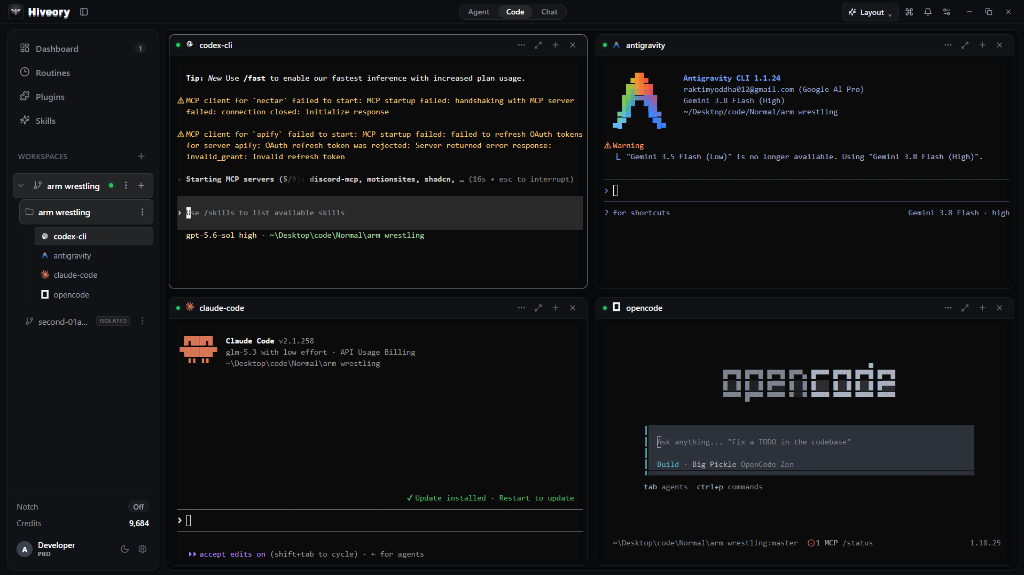
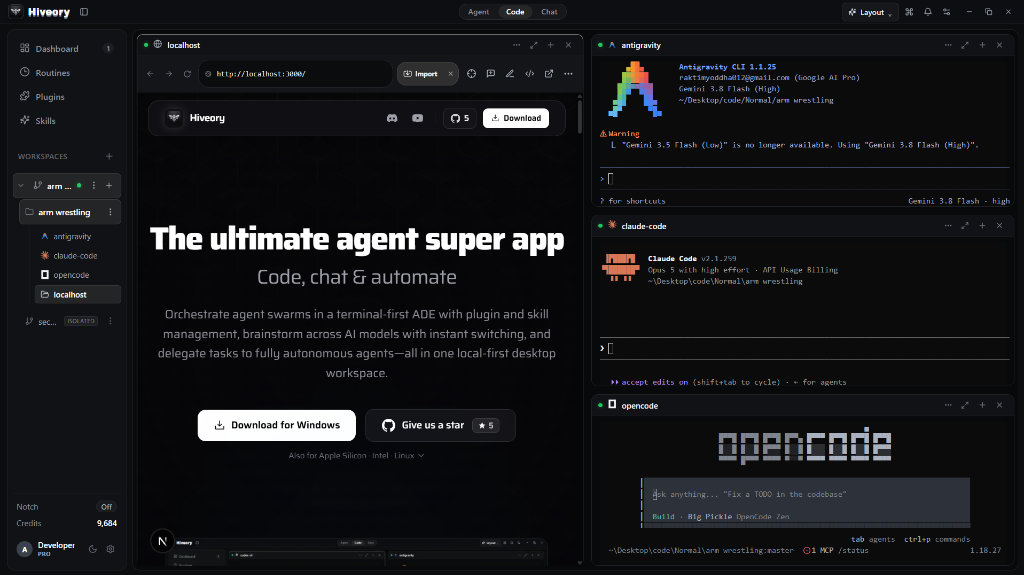
cards

diff --git a/src/components/ProductCardStack.tsx b/src/components/ProductCardStack.tsx
@@ -1,6 +1,7 @@
 "use client";
 
 import { motion, useScroll, useTransform } from "framer-motion";
+import Image from "next/image";
 import Link from "next/link";
 import { useEffect, useRef, useState } from "react";
 
@@ -12,7 +13,7 @@ interface ModeCard {
   subtitle: string;
   description: string;
   bullets: string[];
-  vacancyLabel: string;
+  imageSrc: string;
   icon: React.ReactNode;
 }
 
@@ -31,7 +32,7 @@ const modesData: ModeCard[] = [
       "Background swarm delegation & reactive wakeups",
       "Continuous audit logs & execution telemetry",
     ],
-    vacancyLabel: "Agent Mode Workspace Preview",
+    imageSrc: "/agent-mode.png",
     icon: (
       <svg
         className="w-5 h-5 sm:w-6 sm:h-6 text-emerald-400"
@@ -62,7 +63,7 @@ const modesData: ModeCard[] = [
       "Native PTY terminal multiplexing with streaming ANSI",
       "Shared Nectar architecture & memory store over MCP",
     ],
-    vacancyLabel: "Code Mode ADE Multi-Pane Preview",
+    imageSrc: "/demo.png",
     icon: (
       <svg
         className="w-5 h-5 sm:w-6 sm:h-6 text-blue-400"
@@ -93,7 +94,7 @@ const modesData: ModeCard[] = [
       "Sandboxed file attachments and markdown previews",
       "Local-first encrypted conversation archive",
     ],
-    vacancyLabel: "Chat Mode Session Preview",
+    imageSrc: "/chat-mode.png",
     icon: (
       <svg
         className="w-5 h-5 sm:w-6 sm:h-6 text-purple-400"
@@ -114,7 +115,7 @@ const modesData: ModeCard[] = [
 
 export default function ProductCardStack() {
   const sectionRef = useRef<HTMLDivElement>(null);
-  const [bottomOffset, setBottomOffset] = useState<number>(1000);
+  const [bottomOffset, setBottomOffset] = useState<number>(1200);
 
   useEffect(() => {
     const updateOffset = () => {
@@ -130,163 +131,126 @@ export default function ProductCardStack() {
     offset: ["start start", "end end"],
   });
 
-  // CARD 0 (Agent Mode): Stays in its place from the start (y: 0), scales down as Card 1 arrives
-  const scale0 = useTransform(scrollYProgress, [0.10, 0.35], [1, 0.94]);
+  // CARD 0 (Agent Mode): Stays at y: 0, full scale
+  // CARD 1 (Code Mode): Starts rising immediately as scroll starts from this position, completely overriding Card 0
+  const y1 = useTransform(scrollYProgress, [0.01, 0.44], [bottomOffset, 0]);
 
-  // CARD 1 (Code Mode): Appears from the very bottom, rises and stops over Card 0 at y: 20
-  const y1 = useTransform(scrollYProgress, [0.08, 0.35], [bottomOffset, 20]);
-  const scale1 = useTransform(scrollYProgress, [0.40, 0.65], [1, 0.97]);
-
-  // CARD 2 (Chat Mode): Appears from the very bottom, rises and stops over Card 1 at y: 40 (settles early by 0.65)
-  const y2 = useTransform(scrollYProgress, [0.38, 0.65], [bottomOffset, 40]);
-
-  // Get Details button: Only appears once Card 3 (Chat Mode) has fully settled at the top (after 0.65)
-  const buttonOpacity = useTransform(scrollYProgress, (pos) => {
-    if (pos >= 0.72) return 1;
-    if (pos <= 0.65) return 0;
-    return (pos - 0.65) / (0.72 - 0.65);
-  });
-  const buttonY = useTransform(scrollYProgress, (pos) => {
-    if (pos >= 0.72) return 0;
-    if (pos <= 0.65) return 16;
-    return Math.round(16 * (1 - (pos - 0.65) / (0.72 - 0.65)));
-  });
-  const buttonPointerEvents = useTransform(scrollYProgress, (pos) =>
-    pos >= 0.68 ? "auto" : "none"
-  );
+  // CARD 2 (Chat Mode): Rises up and lands at y: 0, completely overriding Card 1
+  const y2 = useTransform(scrollYProgress, [0.48, 0.88], [bottomOffset, 0]);
 
   return (
-    <section
-      id="product-modes"
-      ref={sectionRef}
-      className="relative w-full h-[420vh] z-20"
-    >
-      {/* Sticky Viewport Frame: Balanced top positioning */}
-      <div className="sticky top-0 h-screen w-full flex flex-col items-center justify-start pt-20 sm:pt-22 md:pt-24 pb-6 px-4 sm:px-6 overflow-hidden pointer-events-none">
-        {/* Stuck Title and Description at the Top */}
-        <div className="max-w-3xl mx-auto text-center mb-5 sm:mb-6 shrink-0 pointer-events-auto">
-          <h2 className="text-3xl sm:text-4xl md:text-5xl font-extrabold tracking-[-0.03em] text-white leading-tight mb-2">
-            One Super App. Three Modes.
-          </h2>
-          <p className="text-xs sm:text-sm text-zinc-400 max-w-xl mx-auto leading-relaxed">
-            Switch seamlessly between full autonomous task execution, multi-CLI
-            coding sessions, and multi-model brainstorming.
-          </p>
-        </div>
-
-        {/* Stacking Cards Area: Below the Title and Description */}
-        <div className="relative w-full max-w-5xl h-[420px] sm:h-[450px] md:h-[465px] pointer-events-auto">
-          {/* CARD 0: Agent Mode - Stays in place */}
-          <motion.div
-            style={{ y: 0, scale: scale0, zIndex: 10 }}
-            className="absolute inset-x-0 top-0 origin-top rounded-none border border-white/[0.15] bg-[#0c0c11]/95 backdrop-blur-2xl shadow-[0_30px_90px_-15px_rgba(0,0,0,0.95),inset_0_1px_0_rgba(255,255,255,0.08)] p-5 sm:p-7 md:p-8"
-          >
-            {/* Outer Card Corner Brackets */}
-            <div className="absolute top-2 left-2 w-3.5 h-3.5 border-t-2 border-l-2 border-white/40 pointer-events-none" />
-            <div className="absolute top-2 right-2 w-3.5 h-3.5 border-t-2 border-r-2 border-white/40 pointer-events-none" />
-            <div className="absolute bottom-2 left-2 w-3.5 h-3.5 border-b-2 border-l-2 border-white/40 pointer-events-none" />
-            <div className="absolute bottom-2 right-2 w-3.5 h-3.5 border-b-2 border-r-2 border-white/40 pointer-events-none" />
-            <CardInnerContent card={modesData[0]} />
-          </motion.div>
-
-          {/* CARD 1: Code Mode */}
-          <motion.div
-            style={{ y: y1, scale: scale1, zIndex: 20 }}
-            className="absolute inset-x-0 top-0 origin-top rounded-none border border-white/[0.15] bg-[#0c0c11]/95 backdrop-blur-2xl shadow-[0_30px_90px_-15px_rgba(0,0,0,0.95),inset_0_1px_0_rgba(255,255,255,0.08)] p-5 sm:p-7 md:p-8"
-          >
-            {/* Outer Card Corner Brackets */}
-            <div className="absolute top-2 left-2 w-3.5 h-3.5 border-t-2 border-l-2 border-white/40 pointer-events-none" />
-            <div className="absolute top-2 right-2 w-3.5 h-3.5 border-t-2 border-r-2 border-white/40 pointer-events-none" />
-            <div className="absolute bottom-2 left-2 w-3.5 h-3.5 border-b-2 border-l-2 border-white/40 pointer-events-none" />
-            <div className="absolute bottom-2 right-2 w-3.5 h-3.5 border-b-2 border-r-2 border-white/40 pointer-events-none" />
-            <CardInnerContent card={modesData[1]} />
-          </motion.div>
-
-          {/* CARD 2: Chat Mode */}
-          <motion.div
-            style={{ y: y2, zIndex: 30 }}
-            className="absolute inset-x-0 top-0 origin-top rounded-none border border-white/[0.15] bg-[#0c0c11]/95 backdrop-blur-2xl shadow-[0_30px_90px_-15px_rgba(0,0,0,0.95),inset_0_1px_0_rgba(255,255,255,0.08)] p-5 sm:p-7 md:p-8"
-          >
-            {/* Outer Card Corner Brackets */}
-            <div className="absolute top-2 left-2 w-3.5 h-3.5 border-t-2 border-l-2 border-white/40 pointer-events-none" />
-            <div className="absolute top-2 right-2 w-3.5 h-3.5 border-t-2 border-r-2 border-white/40 pointer-events-none" />
-            <div className="absolute bottom-2 left-2 w-3.5 h-3.5 border-b-2 border-l-2 border-white/40 pointer-events-none" />
-            <div className="absolute bottom-2 right-2 w-3.5 h-3.5 border-b-2 border-r-2 border-white/40 pointer-events-none" />
-            <CardInnerContent card={modesData[2]} />
-          </motion.div>
-        </div>
-
-        {/* Get More Details Button - Persistently appears ONLY after 3rd card settles at the top */}
-        <motion.div
-          style={{
-            opacity: buttonOpacity,
-            y: buttonY,
-            pointerEvents: buttonPointerEvents,
-          }}
-          className="mt-2 sm:mt-3 z-40 flex items-center justify-center"
-        >
-          <Link
-            href="/product"
-            className="group relative inline-flex items-center gap-2 px-6 py-2.5 rounded-lg bg-[#141418] hover:bg-white text-white hover:text-black border border-white/20 hover:border-white text-xs sm:text-sm font-semibold tracking-wide transition-all duration-300 shadow-[0_0_25px_rgba(255,255,255,0.06)] hover:shadow-[0_0_35px_rgba(255,255,255,0.25)]"
-          >
-            <span>Get More Details</span>
-            <span className="group-hover:translate-x-1 transition-transform duration-300">→</span>
-          </Link>
-        </motion.div>
+    <div id="product-modes" className="relative w-full">
+      {/* Section Header (In normal document flow, NOT stuck in the overlapping animation) */}
+      <div className="relative z-10 w-full max-w-4xl mx-auto px-4 sm:px-6 pt-16 sm:pt-24 pb-8 sm:pb-12 text-center">
+        <h2 className="text-3xl sm:text-4xl md:text-5xl lg:text-[54px] font-extrabold tracking-[-0.03em] text-white leading-tight mb-4">
+          One Super App. Three Modes.
+        </h2>
+        <p className="text-base sm:text-lg text-zinc-400 max-w-2xl mx-auto leading-relaxed">
+          Switch seamlessly between full autonomous task execution, multi-CLI
+          coding sessions, and multi-model brainstorming inside one unified host.
+        </p>
       </div>
-    </section>
+
+      {/* Sticky Overlapping Cards Animation (Title is NOT shown in sticky viewport) */}
+      <section
+        ref={sectionRef}
+        className="relative w-full h-[320vh] z-20"
+      >
+        {/* Sticky Viewport Frame: Shifted down to stay centered overall in the viewport */}
+        <div className="sticky top-0 h-screen w-full flex flex-col items-center justify-center pt-8 pb-4 px-4 sm:px-6 lg:px-8 overflow-hidden pointer-events-none">
+          {/* Overriding Lowered-Length Cards Area */}
+          <div className="relative w-full max-w-6xl h-[430px] sm:h-[450px] md:h-[470px] lg:h-[480px] pointer-events-auto">
+            {/* CARD 0: Agent Mode - In place from start */}
+            <motion.div
+              style={{ y: 0, zIndex: 10 }}
+              className="absolute inset-0 rounded-none border border-white/[0.15] bg-[#0c0c11] shadow-[0_30px_90px_-15px_rgba(0,0,0,0.95),inset_0_1px_0_rgba(255,255,255,0.08)] p-5 sm:p-6 md:p-8 flex flex-col justify-center"
+            >
+              {/* Outer Card Corner Brackets */}
+              <div className="absolute top-2.5 left-2.5 w-4 h-4 border-t-2 border-l-2 border-white/40 pointer-events-none" />
+              <div className="absolute top-2.5 right-2.5 w-4 h-4 border-t-2 border-r-2 border-white/40 pointer-events-none" />
+              <div className="absolute bottom-2.5 left-2.5 w-4 h-4 border-b-2 border-l-2 border-white/40 pointer-events-none" />
+              <div className="absolute bottom-2.5 right-2.5 w-4 h-4 border-b-2 border-r-2 border-white/40 pointer-events-none" />
+              <CardInnerContent card={modesData[0]} index={0} />
+            </motion.div>
+
+            {/* CARD 1: Code Mode - Rises up and completely overrides Card 0 */}
+            <motion.div
+              style={{ y: y1, zIndex: 20 }}
+              className="absolute inset-0 rounded-none border border-white/[0.15] bg-[#0c0c11] shadow-[0_30px_90px_-15px_rgba(0,0,0,0.95),inset_0_1px_0_rgba(255,255,255,0.08)] p-5 sm:p-6 md:p-8 flex flex-col justify-center"
+            >
+              {/* Outer Card Corner Brackets */}
+              <div className="absolute top-2.5 left-2.5 w-4 h-4 border-t-2 border-l-2 border-white/40 pointer-events-none" />
+              <div className="absolute top-2.5 right-2.5 w-4 h-4 border-t-2 border-r-2 border-white/40 pointer-events-none" />
+              <div className="absolute bottom-2.5 left-2.5 w-4 h-4 border-b-2 border-l-2 border-white/40 pointer-events-none" />
+              <div className="absolute bottom-2.5 right-2.5 w-4 h-4 border-b-2 border-r-2 border-white/40 pointer-events-none" />
+              <CardInnerContent card={modesData[1]} index={1} />
+            </motion.div>
+
+            {/* CARD 2: Chat Mode - Rises up and completely overrides Card 1 */}
+            <motion.div
+              style={{ y: y2, zIndex: 30 }}
+              className="absolute inset-0 rounded-none border border-white/[0.15] bg-[#0c0c11] shadow-[0_30px_90px_-15px_rgba(0,0,0,0.95),inset_0_1px_0_rgba(255,255,255,0.08)] p-5 sm:p-6 md:p-8 flex flex-col justify-center"
+            >
+              {/* Outer Card Corner Brackets */}
+              <div className="absolute top-2.5 left-2.5 w-4 h-4 border-t-2 border-l-2 border-white/40 pointer-events-none" />
+              <div className="absolute top-2.5 right-2.5 w-4 h-4 border-t-2 border-r-2 border-white/40 pointer-events-none" />
+              <div className="absolute bottom-2.5 left-2.5 w-4 h-4 border-b-2 border-l-2 border-white/40 pointer-events-none" />
+              <div className="absolute bottom-2.5 right-2.5 w-4 h-4 border-b-2 border-r-2 border-white/40 pointer-events-none" />
+              <CardInnerContent card={modesData[2]} index={2} />
+            </motion.div>
+          </div>
+
+          {/* See More Details Button - Always visible, never disappears while scrolling down */}
+          <div className="mt-6 sm:mt-8 z-40 flex items-center justify-center pointer-events-auto">
+            <Link
+              href="/product"
+              className="group relative inline-flex items-center gap-2 px-6 py-2.5 rounded-none bg-[#141418] hover:bg-white text-white hover:text-black border border-white/20 hover:border-white text-xs sm:text-sm font-semibold tracking-wide transition-all duration-300 shadow-[0_0_25px_rgba(255,255,255,0.06)] hover:shadow-[0_0_35px_rgba(255,255,255,0.25)]"
+            >
+              <span>See More Details</span>
+              <span className="group-hover:translate-x-1 transition-transform duration-300">→</span>
+            </Link>
+          </div>
+        </div>
+      </section>
+    </div>
   );
 }
 
-function CardInnerContent({ card }: { card: ModeCard }) {
+function CardInnerContent({ card, index }: { card: ModeCard; index: number }) {
   return (
-    <div className="grid grid-cols-1 md:grid-cols-12 gap-5 sm:gap-8 items-center">
-      {/* Left Side: Image Vacancy Container */}
-      <div className="md:col-span-6 w-full aspect-[16/10] max-h-[220px] sm:max-h-[280px] rounded-none border border-dashed border-white/20 bg-white/[0.02] flex flex-col items-center justify-center p-5 text-center group hover:border-white/35 transition-all duration-300 relative overflow-hidden shadow-inner">
-        {/* Subtle glass shimmer inside vacancy */}
-        <div className="absolute inset-0 bg-[radial-gradient(ellipse_at_top,rgba(255,255,255,0.06),transparent_70%)] pointer-events-none" />
-
-        <div className="relative w-11 h-11 sm:w-13 sm:h-13 rounded-none bg-white/[0.05] border border-white/10 flex items-center justify-center mb-2.5 shadow-inner group-hover:scale-105 transition-transform duration-300">
-          {card.icon}
+    <div className="grid grid-cols-1 lg:grid-cols-12 gap-5 sm:gap-6 lg:gap-8 items-center h-full">
+      {/* Left Side: Title & Description */}
+      <div className="lg:col-span-5 flex flex-col justify-center">
+        {/* Step pill tag */}
+        <div className="flex items-center gap-2 mb-2 sm:mb-2.5">
+          <span className="inline-flex items-center gap-2 px-2.5 py-0.5 rounded-none bg-white/[0.06] border border-white/15 text-[11px] font-mono text-zinc-300">
+            <span className="text-white font-bold">{index + 1}/3</span>
+            <span className="text-zinc-500">·</span>
+            <span>{card.tag}</span>
+          </span>
         </div>
 
-        <span className="relative text-xs sm:text-sm font-semibold text-zinc-200 tracking-tight mb-1">
-          {card.vacancyLabel}
-        </span>
-        <span className="relative text-[11px] sm:text-xs text-zinc-500 max-w-[200px]">
-          Ready for image asset injection
-        </span>
-
-        {/* Corner guide brackets */}
-        <div className="absolute top-2 left-2 w-3 h-3 border-t-2 border-l-2 border-white/30" />
-        <div className="absolute top-2 right-2 w-3 h-3 border-t-2 border-r-2 border-white/30" />
-        <div className="absolute bottom-2 left-2 w-3 h-3 border-b-2 border-l-2 border-white/30" />
-        <div className="absolute bottom-2 right-2 w-3 h-3 border-b-2 border-r-2 border-white/30" />
-      </div>
-
-      {/* Right Side: Title & Description */}
-      <div className="md:col-span-6 flex flex-col justify-center">
-        <h3 className="text-xl sm:text-2xl md:text-3xl font-bold text-white tracking-tight mb-1">
+        <h3 className="text-xl sm:text-2xl lg:text-3xl font-extrabold text-white tracking-tight mb-1.5">
           {card.title}
         </h3>
 
-        <p className="text-xs sm:text-[13px] font-medium text-zinc-400 mb-3 leading-snug">
+        <p className="text-xs sm:text-[13px] font-medium text-zinc-300 mb-2 leading-snug">
           {card.subtitle}
         </p>
 
-        <p className="text-xs sm:text-sm text-zinc-400/90 leading-relaxed mb-4 hidden sm:block">
+        <p className="text-xs text-zinc-400 leading-relaxed mb-3 hidden sm:block">
           {card.description}
         </p>
 
         {/* Key Feature Bullets */}
-        <ul className="space-y-1.5 mb-4">
+        <ul className="space-y-1.5 mb-3 sm:mb-4">
           {card.bullets.map((bullet, i) => (
             <li
               key={i}
-              className="flex items-center gap-2 text-xs sm:text-[13px] text-zinc-300"
+              className="flex items-start gap-2 text-xs text-zinc-300"
             >
               <svg
-                className="w-3.5 h-3.5 text-emerald-400 shrink-0"
+                className="w-3.5 h-3.5 text-emerald-400 shrink-0 mt-0.5"
                 viewBox="0 0 24 24"
                 fill="none"
                 stroke="currentColor"
@@ -307,13 +271,30 @@ function CardInnerContent({ card }: { card: ModeCard }) {
         <div>
           <Link
             href="/product"
-            className="inline-flex items-center gap-1.5 text-xs sm:text-sm font-semibold text-white hover:text-zinc-300 transition-colors group"
+            className="inline-flex items-center gap-1.5 text-xs sm:text-sm font-semibold text-white hover:text-zinc-200 transition-colors group"
           >
             <span>Explore {card.title}</span>
             <span className="transition-transform group-hover:translate-x-1">
               →
             </span>
           </Link>
+        </div>
+      </div>
+
+      {/* Right Side: Mode Desktop Image (Complete unzoomed 16:9 screenshot) */}
+      <div className="lg:col-span-7 flex items-center justify-center w-full">
+        <div className="relative w-full aspect-[16/9] rounded-none border border-white/15 bg-[#08080c] overflow-hidden shadow-2xl group flex items-center justify-center">
+          <Image
+            src={card.imageSrc}
+            alt={`${card.title} desktop preview`}
+            fill
+            sizes="(max-width: 1024px) 100vw, 720px"
+            className="object-contain block rounded-none transition-transform duration-500 group-hover:scale-[1.01]"
+            priority={index === 0}
+            quality={100}
+          />
+          {/* Subtle glass reflection accent */}
+          <div className="absolute inset-0 pointer-events-none border border-white/10 rounded-none shadow-[inset_0_1px_1px_rgba(255,255,255,0.1)]" />
         </div>
       </div>
     </div>

diff --git a/src/app/page.tsx b/src/app/page.tsx
@@ -157,7 +157,7 @@ export default function Home() {
 
         {/* The Desktop Image container: Small starting size framed by flow lines, smoothly expands to fill screen */}
         <div
-          className="relative rounded-2xl overflow-hidden transition-[max-width,transform,box-shadow,border-color] duration-300 ease-out will-change-transform flex items-center justify-center"
+          className="relative rounded-none overflow-hidden transition-[max-width,transform,box-shadow,border-color] duration-300 ease-out will-change-transform flex items-center justify-center"
           style={{
             width: "100%",
             maxHeight: "calc(100vh - 84px)",
@@ -173,11 +173,11 @@ export default function Home() {
           }}
         >
           <Image
-            src="/hiveory-ade-preview.png"
+            src="/demo.png"
             alt="Hiveory Code Mode ADE running multiple CLIs side by side"
             width={1920}
             height={1080}
-            className="w-full h-full object-contain block rounded-2xl"
+            className="w-full h-full object-contain block rounded-none"
             priority
             quality={95}
           />
